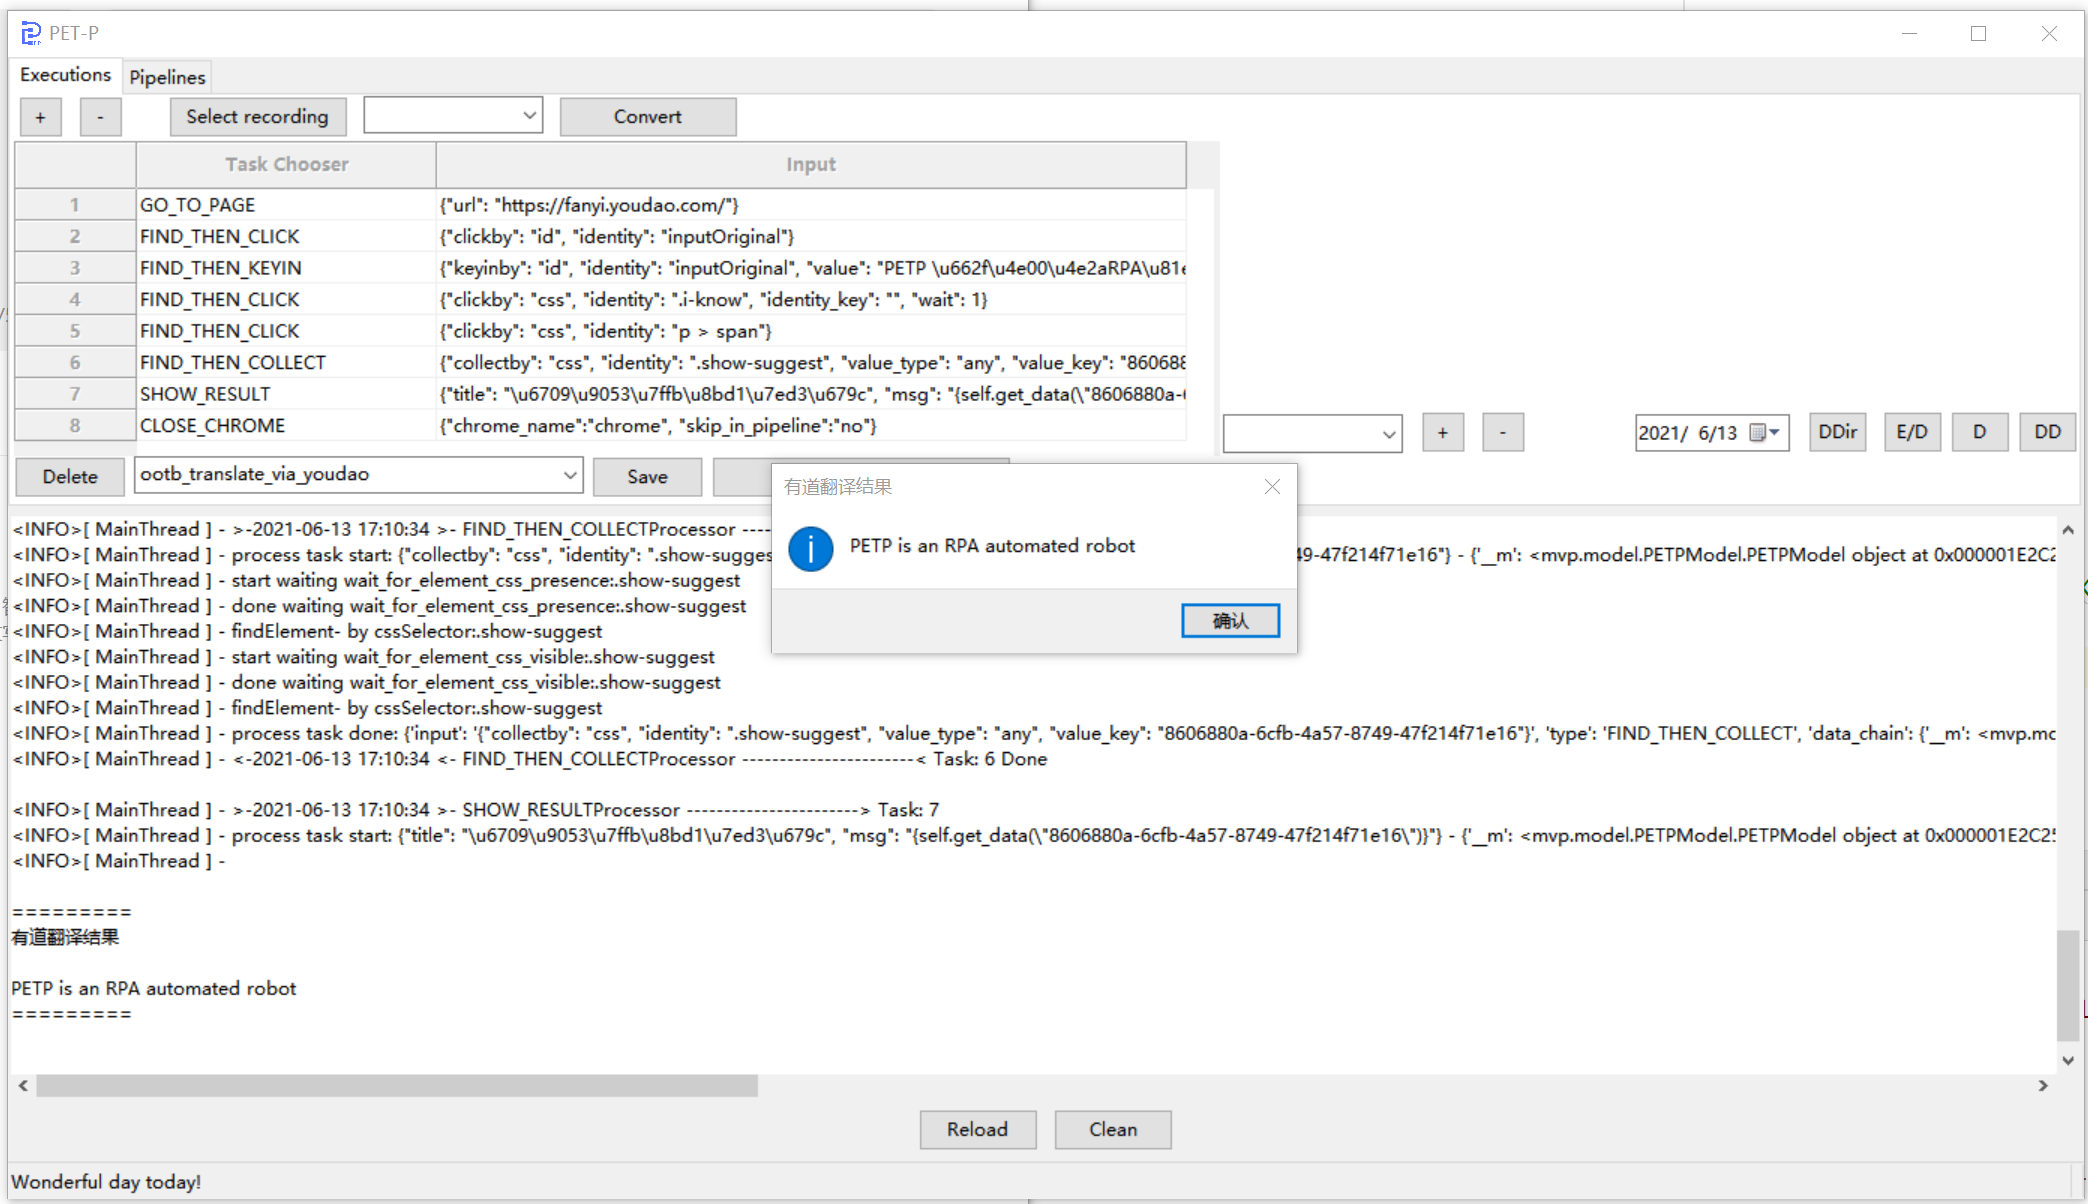
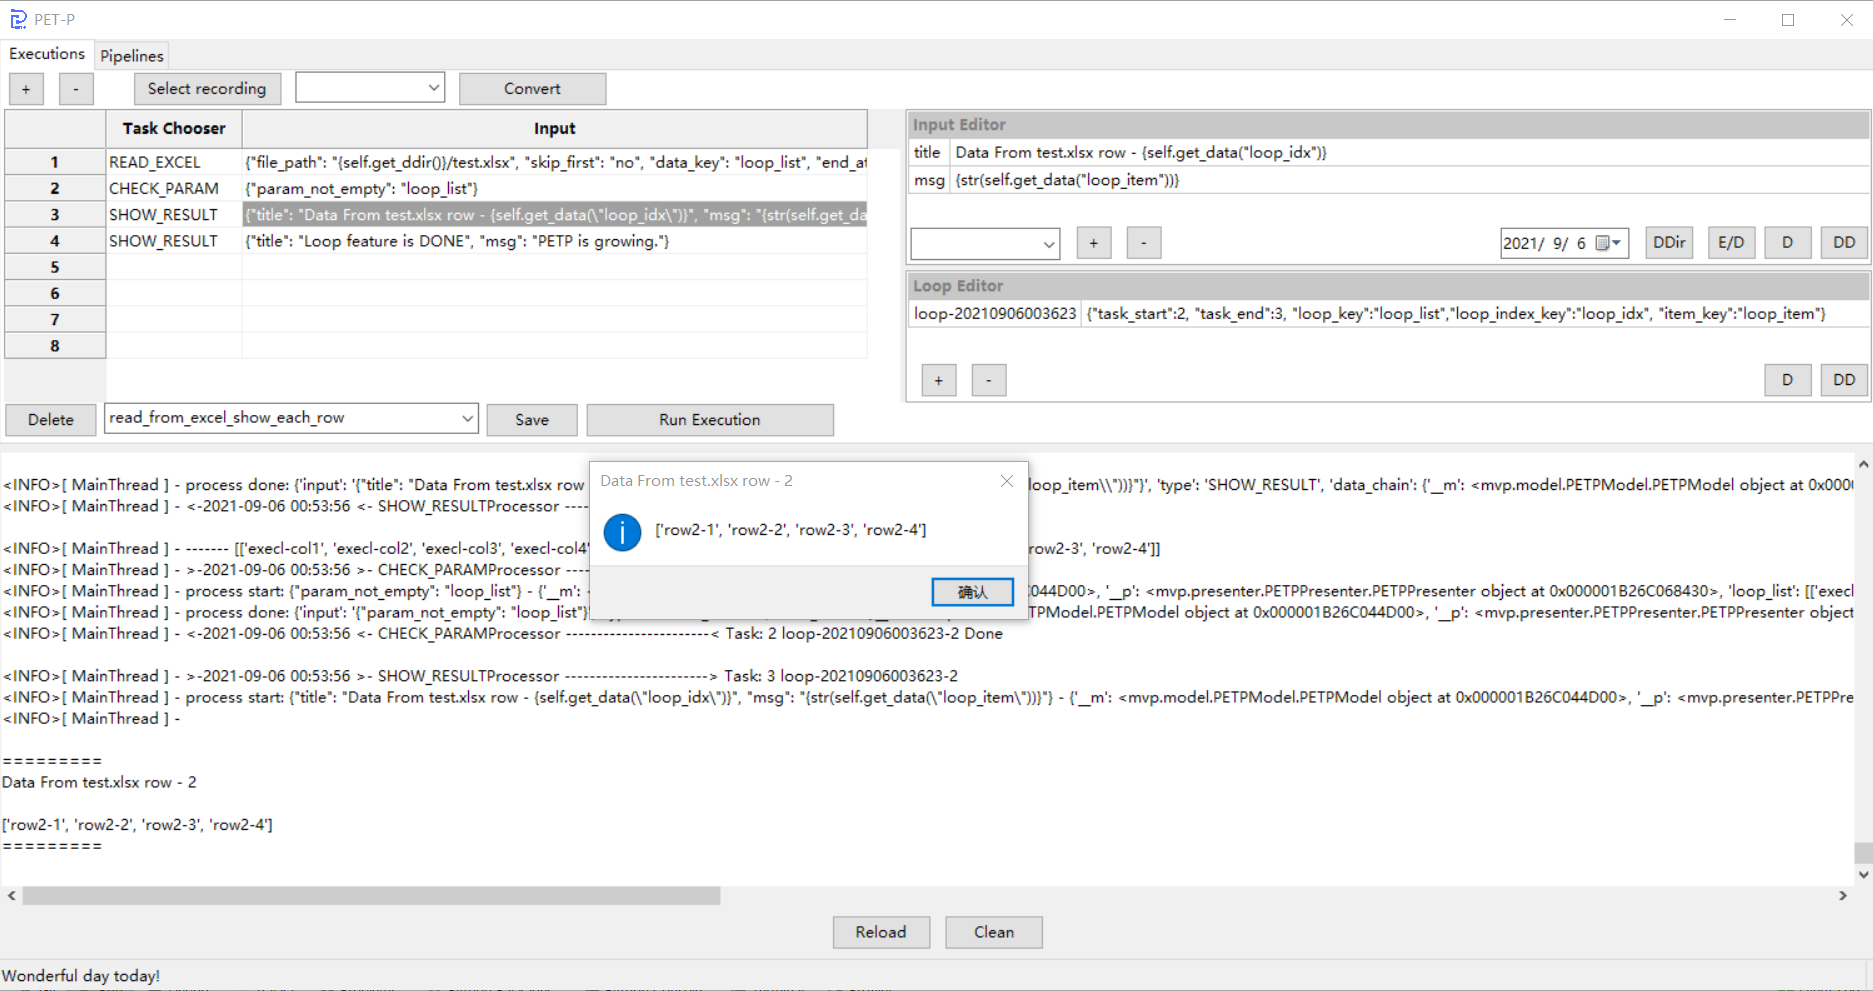
Loop feature roughly done, refer to readme.md Run first Execution within 4 steps:

diff --git a/core/execution.py b/core/execution.py
@@ -2,6 +2,7 @@ import logging
 import os
 
 from core.definition.yamlro import YamlRO
+from core.loop import Loop
 from core.processor import Processor
 from utils.DateUtil import DateUtil
 from utils.OSUtils import OSUtils
@@ -30,10 +31,29 @@ class Execution(object):
     def _run(self, initial_data):
         data_chain = initial_data
         list_size = len(self.list)
+        current_loop: Loop = None
+        current_loop_collection: []
+        current_loop_row = None
+        current_loop_idx = 0
+
+        self.loops.sort(key=lambda loop: loop.get_attribute('task_start'))
 
         idx = 0
         while idx < list_size:
+
             sequence = idx + 1
+
+            current_loop = self.find_current_loop(sequence)
+
+            if current_loop is not None and sequence == current_loop.get_task_start():
+                current_loop_collection = data_chain[current_loop.get_loop_key()]
+
+                logging.info(f'------- {str(current_loop_collection)}')
+
+                if len(current_loop_collection) > current_loop_idx:
+                    current_loop_row = current_loop_collection[current_loop_idx]
+                    data_chain[current_loop.get_item_key()] = current_loop_row
+                    data_chain[current_loop.get_loop_index_key()] = current_loop_idx
 
             task = self.list[idx]
             task.data_chain = data_chain
@@ -43,7 +63,8 @@ class Execution(object):
             processor: Processor = Processor.get_processor_by_type(task.type)
             processor.set_task(task)
 
-            logging.info(f'>-{task.start} >- {type(processor).__name__} -----------------------> Task: {sequence}')
+            logging.info(
+                f'>-{task.start} >- {type(processor).__name__} -----------------------> Task: {sequence} {current_loop.get_loop_code() + "-" + str(current_loop_idx) if current_loop is not None else ""}')
             logging.info(f'process start: {task.input} - {str(task.data_chain)}')
 
             processor.do_process()
@@ -51,11 +72,31 @@ class Execution(object):
             task.end = DateUtil.get_now_in_str("%Y-%m-%d %H:%M:%S")
 
             logging.info(f'process done: {str(task)}')
-            logging.info(f'<-{task.end} <- {type(processor).__name__} -----------------------< Task: {sequence} Done \n')
+            logging.info(
+                f'<-{task.end} <- {type(processor).__name__} -----------------------< Task: {sequence} {current_loop.get_loop_code() + "-" + str(current_loop_idx) if current_loop is not None else ""} Done \n')
+
+            if current_loop is not None and sequence == current_loop.get_task_end():
+                if len(current_loop_collection) > current_loop_idx:
+                    current_loop_idx += 1
+                    idx = current_loop.get_task_start() -1
+                    data_chain[current_loop.get_loop_index_key()] = current_loop_idx
+                    continue
+                else:
+                    current_loop_idx = 0
+                    current_loop_row = None
+                    data_chain[current_loop.get_item_key()] = current_loop_row
+                    data_chain[current_loop.get_loop_index_key()] = 0
 
             idx += 1
 
         return data_chain
+
+    def find_current_loop(self, sequence):
+        for loop in self.loops:
+            if loop.get_task_start() <= sequence <= loop.get_task_end():
+                return loop
+            else:
+                return None
 
     def _get_file_path(self):
         return f'{os.path.realpath(".")}/core/executions/{self.execution}.yaml'

diff --git a/core/loop.py b/core/loop.py
@@ -17,7 +17,26 @@ class Loop:
         # task_start / task_end - task number in task grid
         # loop_key - attribute of the data_chain which represent data collection
         # item_key - attribute of the data_chain which represent item of data collection that pass into the loop tasks.
-        return '{"task_start":2, "task_end":5, "loop_key":"list", "item_key":"item"}'
+        # loop_index - loop cursor
+        return '{"task_start":2, "task_end":5, "loop_key":"loop_list","loop_index_key":"loop_idx", "item_key":"loop_item"}'
+
+    def get_loop_code(self):
+        return self.loop_code
+
+    def get_task_start(self):
+        return int(self.get_attribute('task_start'))
+
+    def get_task_end(self):
+        return int(self.get_attribute('task_end'))
+
+    def get_loop_key(self):
+        return self.get_attribute('loop_key')
+
+    def get_loop_index_key(self):
+        return self.get_attribute('loop_index_key')
+
+    def get_item_key(self):
+        return self.get_attribute('item_key')
 
     def get_attribute(self, name):
         return self.get_attributes()[name]

diff --git a/core/processors/READ_EXCELProcessor.py b/core/processors/READ_EXCELProcessor.py
@@ -3,7 +3,7 @@ from utils.ExcelUtil import ExcelUtil
 
 
 class READ_EXCELProcessor(Processor):
-    TPL: str = '{"file_path":"", "file_path_key":"str on data_chain", "skip_first":"yes|no", "data_key":"name on data_chain"}'
+    TPL: str = '{"file_path":"", "file_path_key":"str on data_chain", "end_at":"10", "skip_first":"yes|no", "data_key":"name on data_chain"}'
     DESC: str = f''' 
 
         Load MS Excel file from location, read data into array and save to data_chain. 
@@ -17,6 +17,8 @@ class READ_EXCELProcessor(Processor):
         fp = self.get_data(self.get_param('file_path_key')) if self.has_param('file_path_key') \
             else self.expression2str(self.get_param('file_path'))
 
-        data = ExcelUtil.get_data_from_excel_file(fp, 1 if skipFirst else 0)
+        end_at = int(self.expression2str(self.get_param('end_at'))) if self.has_param('end_at') else 10
+
+        data = ExcelUtil.get_data_from_excel_file(fp, 1 if skipFirst else 0, end_at)
 
         self.populate_data(self.get_param('data_key'), data)

diff --git a/readme.md b/readme.md
@@ -1,15 +1,16 @@
-# ![image](./image/petp_small.png) PET-P 
+# ![image](./image/petp_small.png) PET-P
 
-This is techno person RPA toolkit, handy task runner/execution engine, RPA robot build by python. 
+This is techno person RPA toolkit, handy task runner/execution engine, RPA robot build by python.
 
-**PET** is short for Pipeline-Execution-Task, which represents the execution unit up-down, pipeline may combine multiple executions, each execution contains multiple tasks. 
-The last **P** means processor, which handle the specific task one-to-one. 
+**PET** is short for Pipeline-Execution-Task, which represents the execution unit up-down, pipeline may combine multiple
+executions, each execution contains multiple tasks. The last **P** means processor, which handle the specific task
+one-to-one.
 
     Pipeline  1:n Execution
     Execution 1:n Task
     Task      1:1 Processor
 
-GUI(wxpython)  
+GUI(wxpython)
 
 macOS
 
@@ -30,7 +31,11 @@ Windows
     - sending email
     - sending http request
     - input dialog / show message
-    
+
+## Run first Execution within 4 steps:
+
+![image](https://raw.githubusercontent.com/lorisunjunbin/petp/master/image/user_manual.jpg)
+
 ## Install & Run
 
     1, Install Chrome and python3
@@ -46,12 +51,13 @@ Windows
 
 - Load records from excel/csv/db table/etc, process associated with record in the LOOP.
 - support multi-loop, not nested loop for now.
- 
+
 - Create more [processors](./core/processors)
 - Enhance [GUI](./mvp) none-blocking execution
 
 ## tips:
+
 - Update all lib on macOS
-   >pip list --outdated --format=freeze | grep -v '^\-e' | cut -d = -f 1  | xargs -n1 pip install -U
+  > pip list --outdated --format=freeze | grep -v '^\-e' | cut -d = -f 1 | xargs -n1 pip install -U
 - Upgrade [chromedriver](https://chromedriver.chromium.org/downloads) if got error of mismatched version.
      
